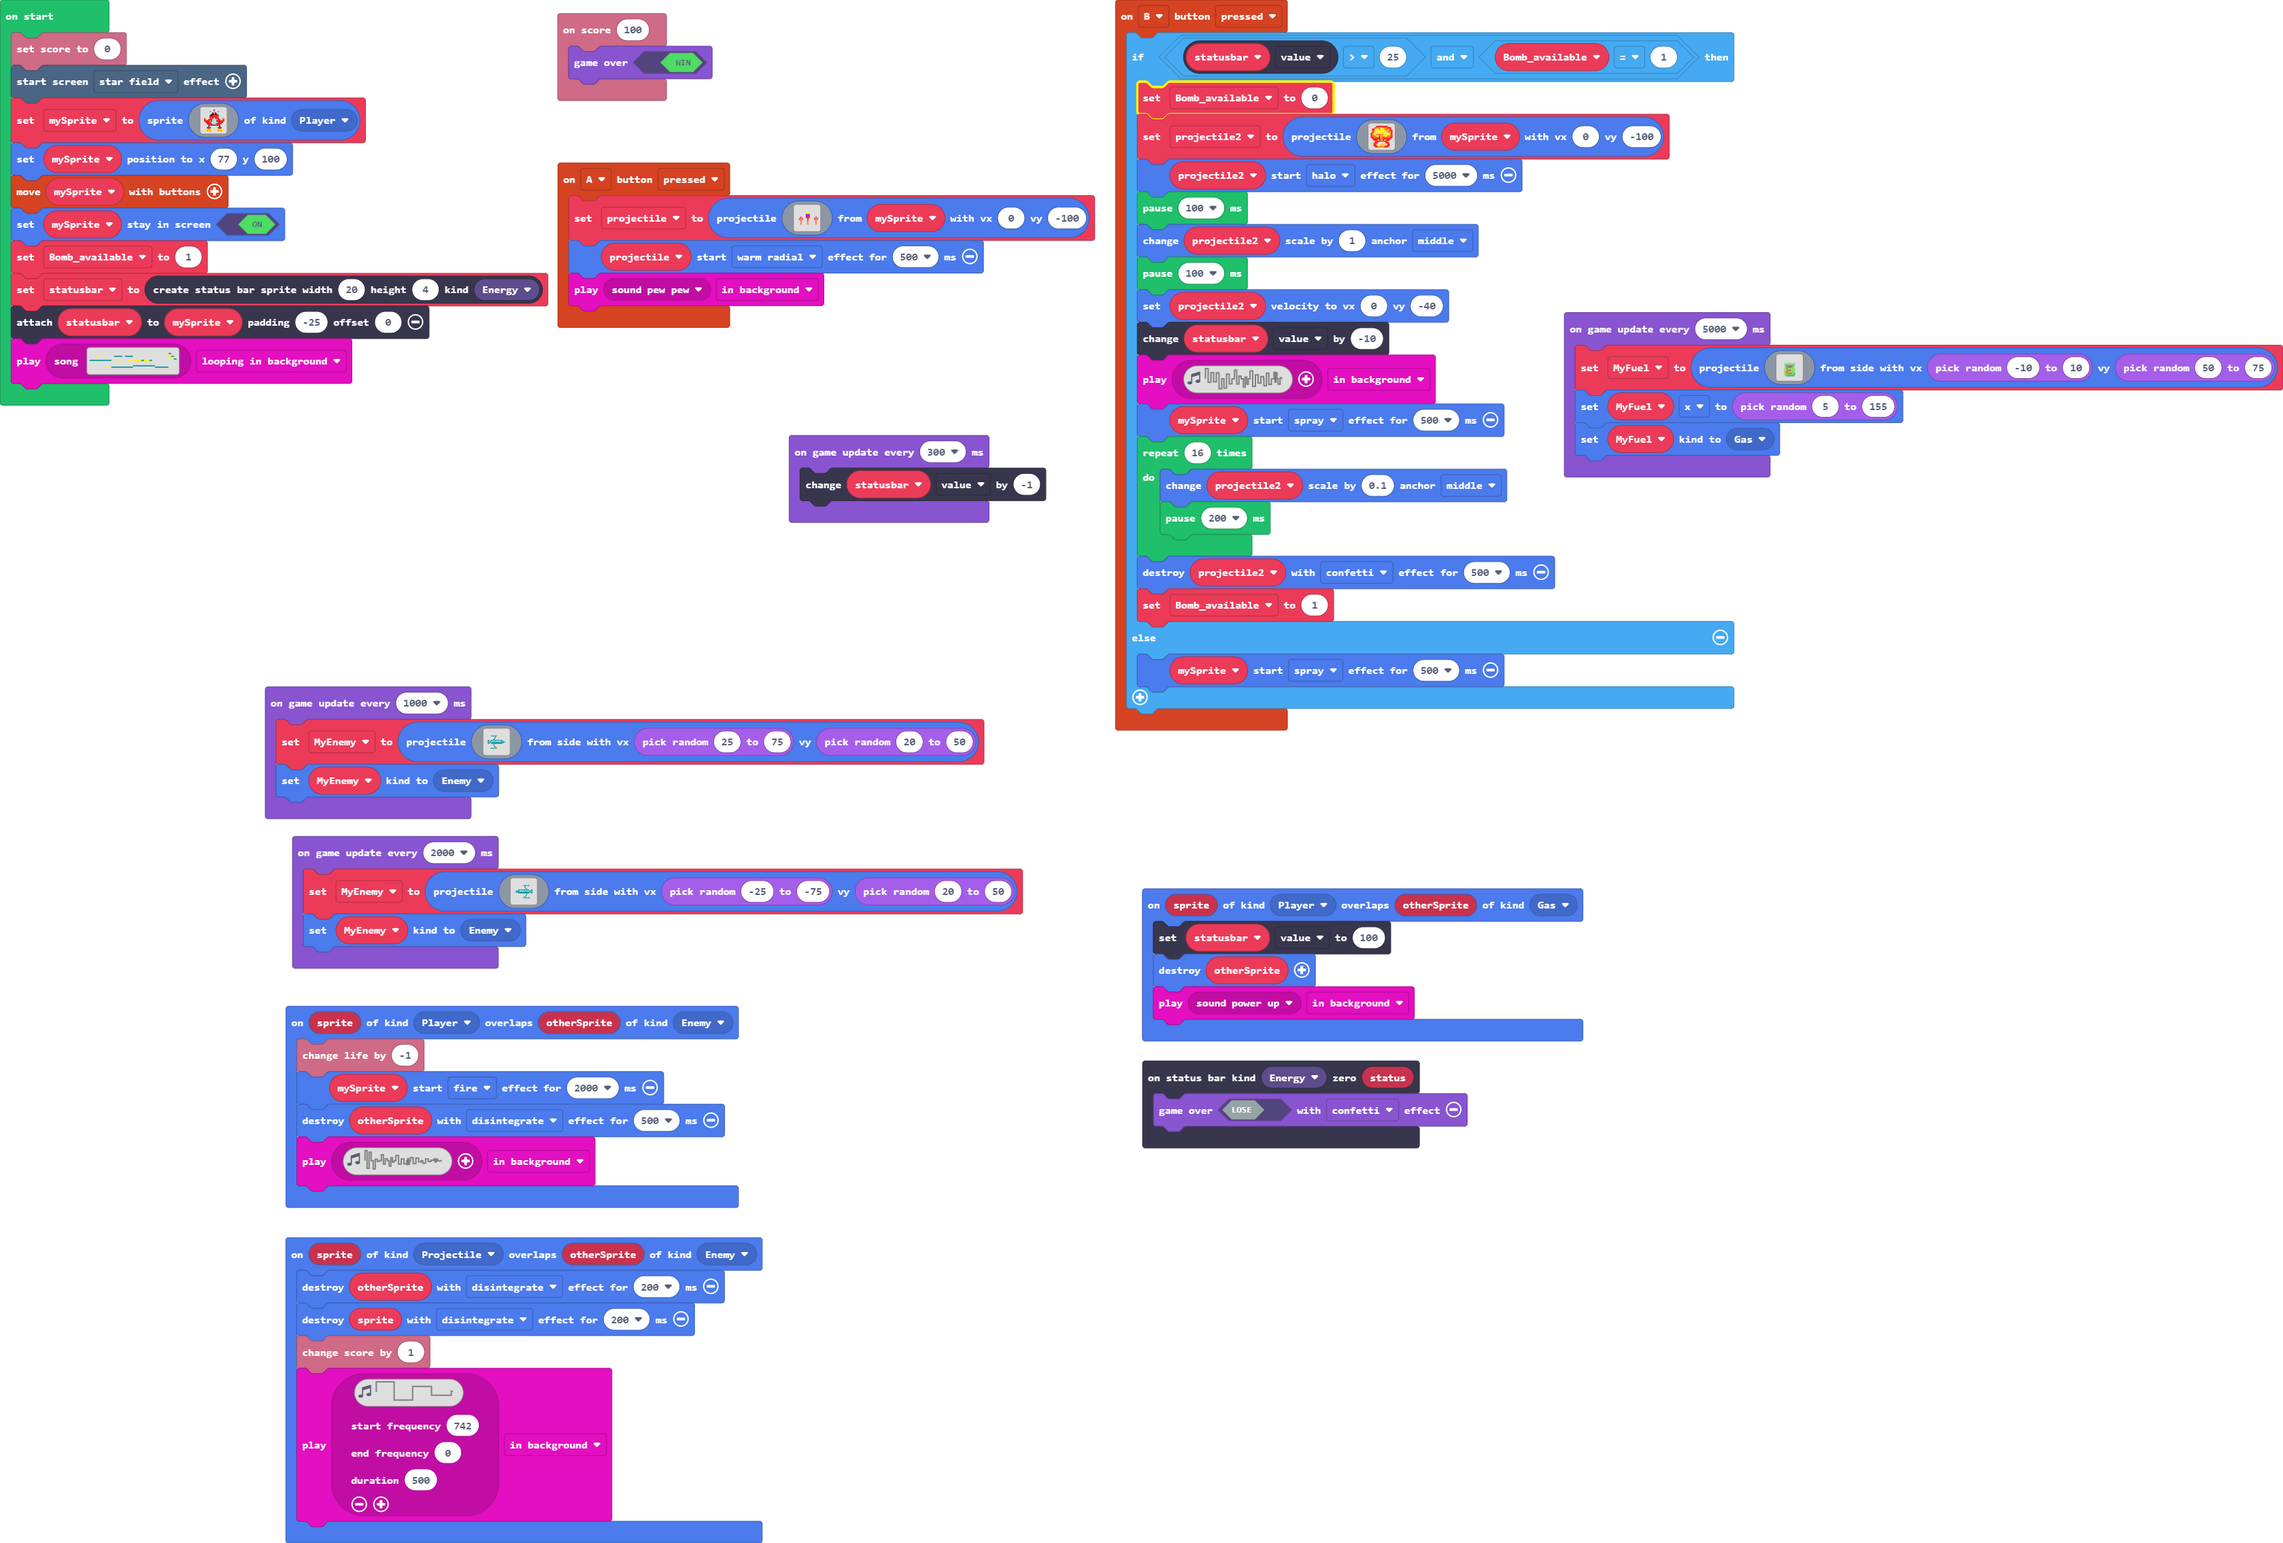
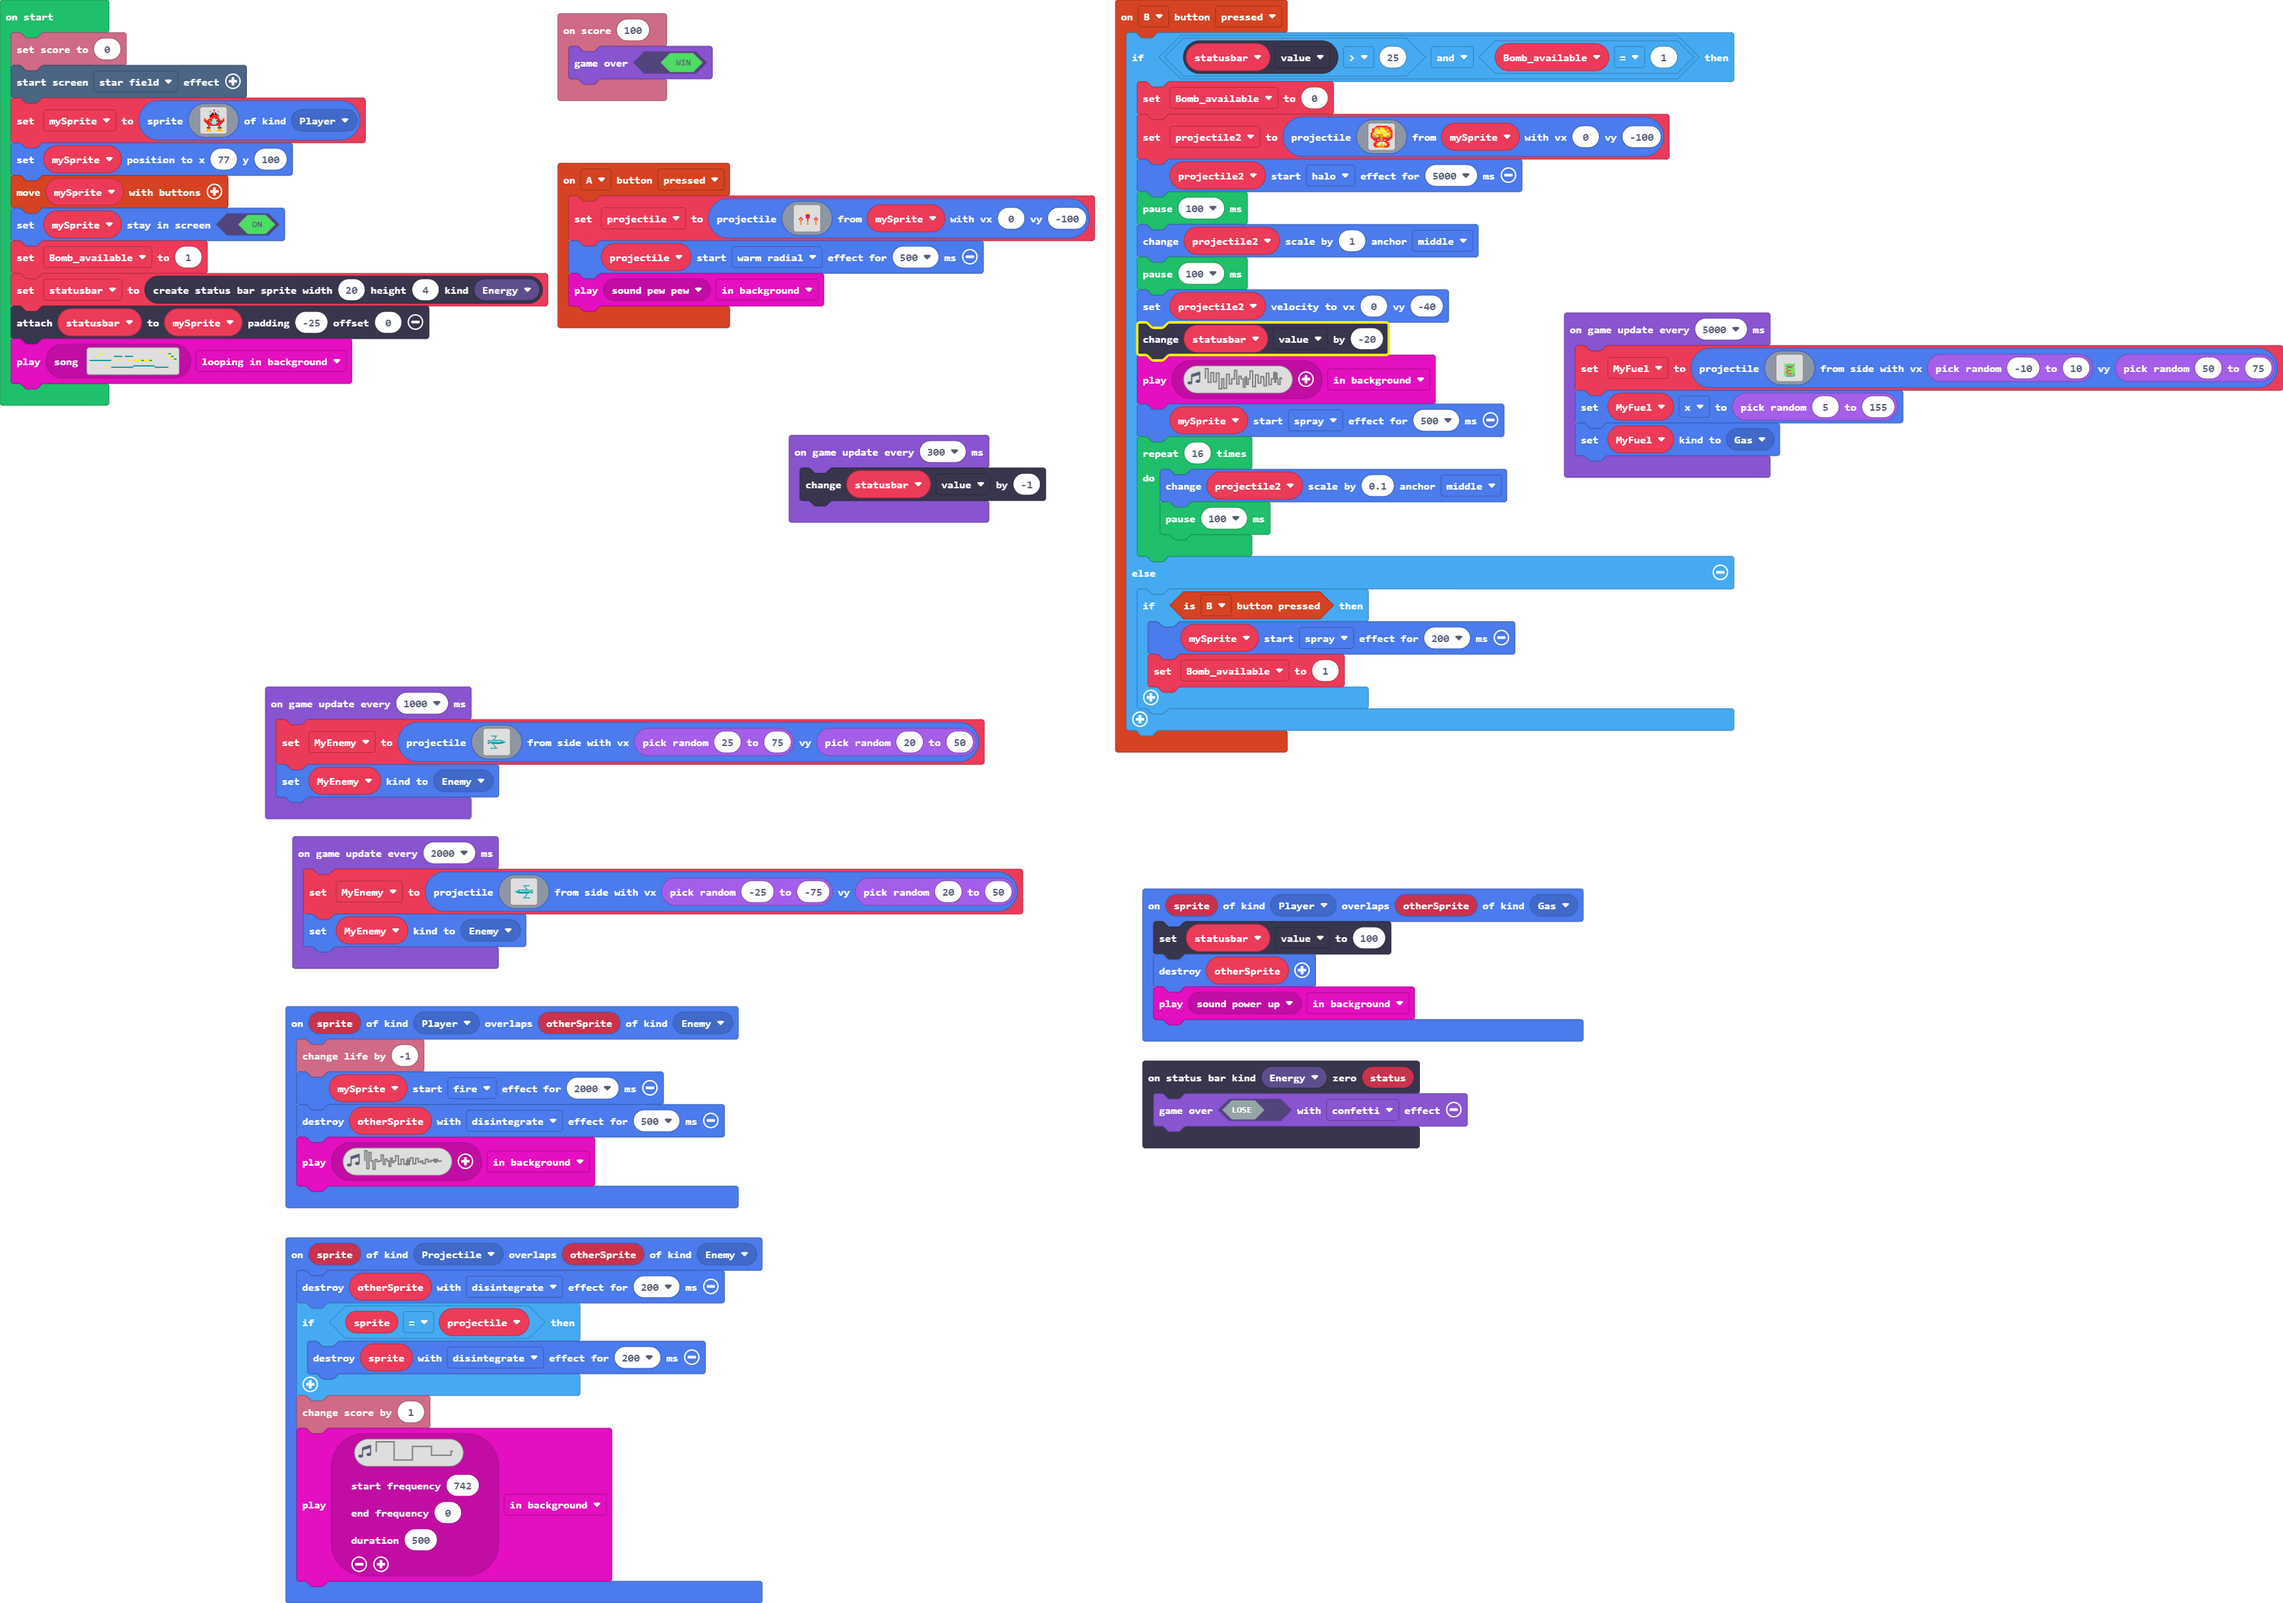
Better Bombs

diff --git a/main.ts b/main.ts
@@ -27,17 +27,18 @@ controller.B.onEvent(ControllerButtonEvent.Pressed, function () {
         projectile2.changeScale(1, ScaleAnchor.Middle)
         pause(100)
         projectile2.setVelocity(0, -40)
-        statusbar.value += -10
+        statusbar.value += -20
         music.play(music.createSoundEffect(WaveShape.Noise, 1768, 0, 255, 140, 3000, SoundExpressionEffect.None, InterpolationCurve.Linear), music.PlaybackMode.InBackground)
         mySprite.startEffect(effects.spray, 500)
         for (let index = 0; index < 16; index++) {
             projectile2.changeScale(0.1, ScaleAnchor.Middle)
-            pause(200)
+            pause(100)
         }
-        projectile2.destroy(effects.confetti, 500)
-        Bomb_available = 1
     } else {
-        mySprite.startEffect(effects.spray, 500)
+        if (controller.B.isPressed()) {
+            mySprite.startEffect(effects.spray, 200)
+            Bomb_available = 1
+        }
     }
 })
 controller.A.onEvent(ControllerButtonEvent.Pressed, function () {
@@ -58,7 +59,9 @@ statusbars.onZero(StatusBarKind.Energy, function (status) {
 })
 sprites.onOverlap(SpriteKind.Projectile, SpriteKind.Enemy, function (sprite, otherSprite) {
     otherSprite.destroy(effects.disintegrate, 200)
-    sprite.destroy(effects.disintegrate, 200)
+    if (sprite == projectile) {
+        sprite.destroy(effects.disintegrate, 200)
+    }
     info.changeScoreBy(1)
     music.play(music.createSoundEffect(
     WaveShape.Square,
